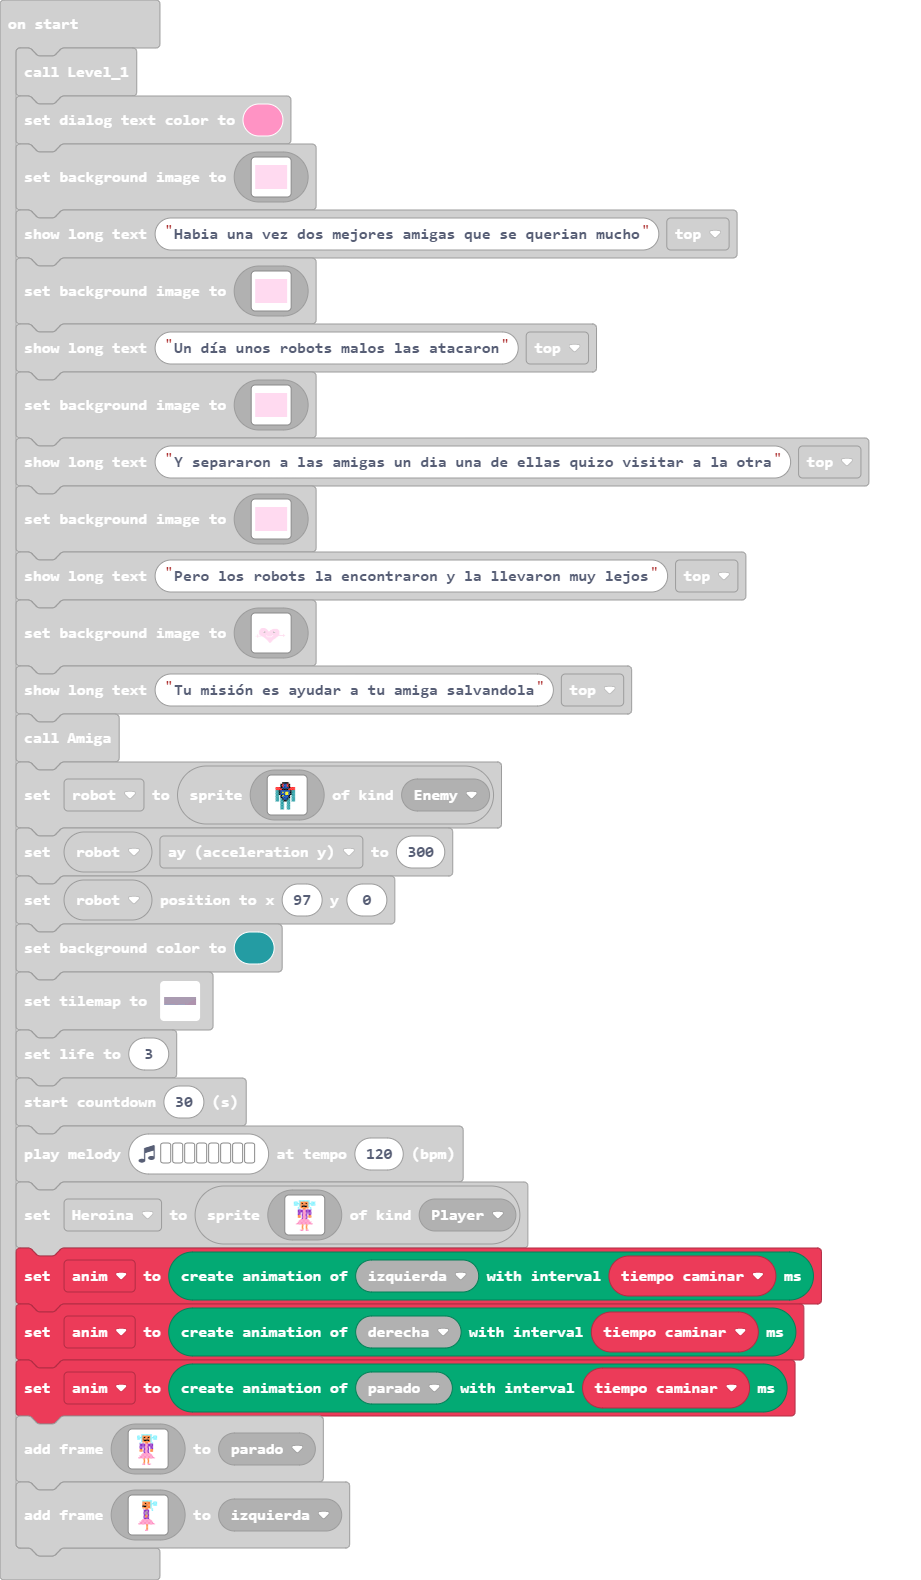
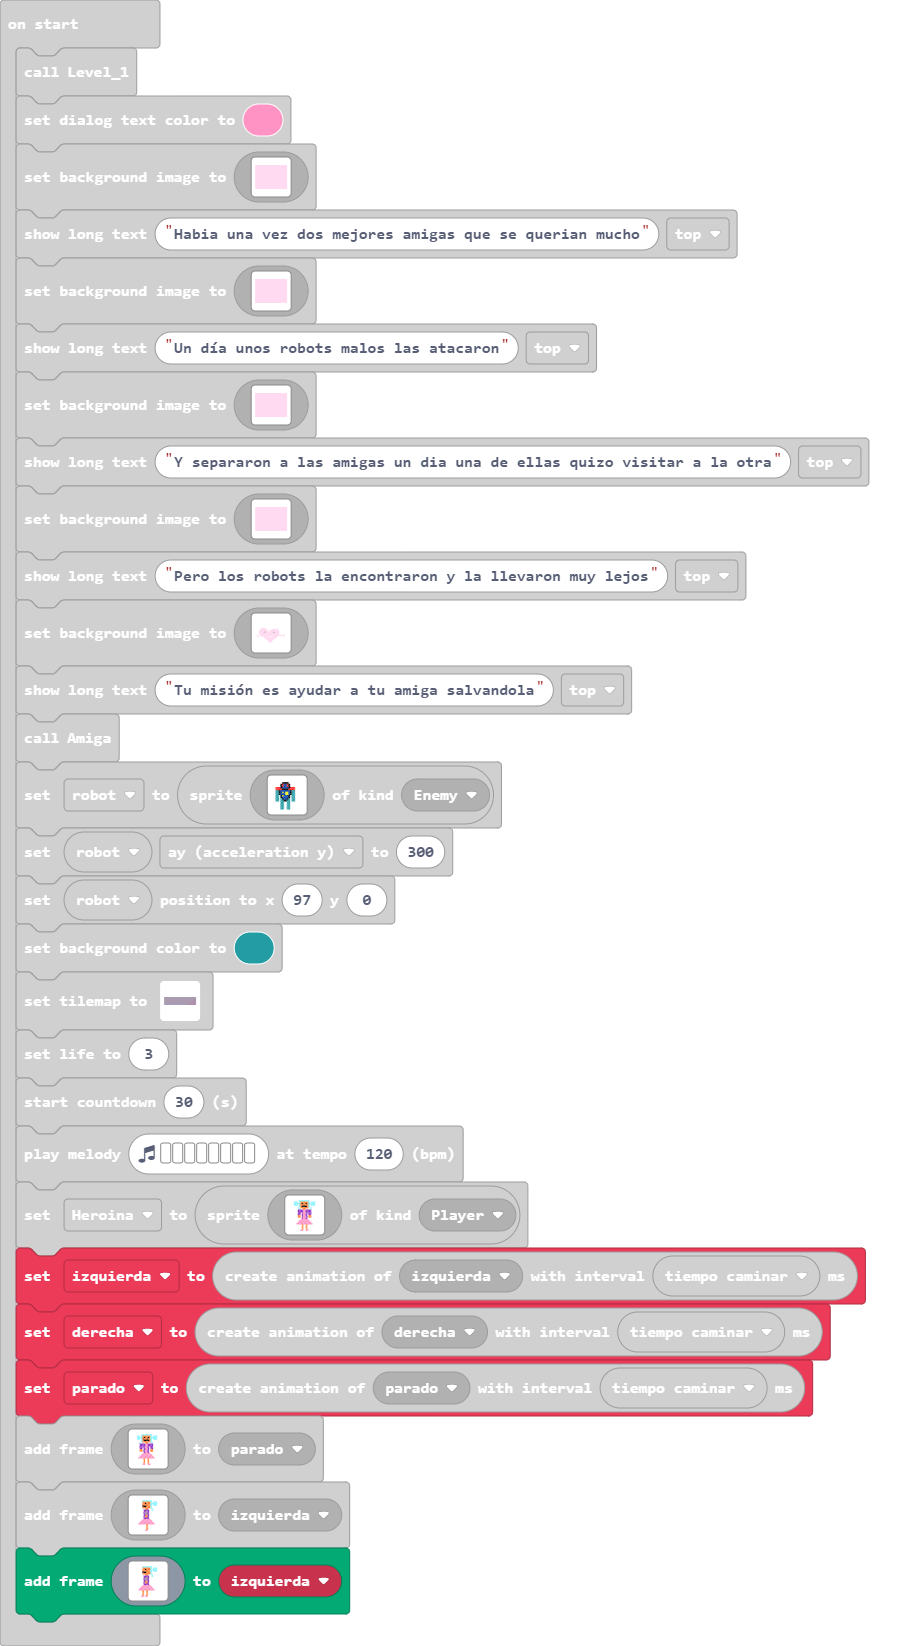
arregle el problema de la animacion

Changed region(s): [[0.0, 0.031, 0.9425, 0.9924]]

diff --git a/main.ts b/main.ts
@@ -159,8 +159,6 @@ sprites.onOverlap(SpriteKind.Projectile, SpriteKind.Enemy, function (sprite, oth
     robot.destroy()
 })
 let projectile: Sprite = null
-let izquierda: animation.Animation = null
-let parado: animation.Animation = null
 let tiempo_caminar = 0
 let Heroina: Sprite = null
 let robot: Sprite = null
@@ -854,9 +852,9 @@ Heroina = sprites.create(img`
     . . . . . . 4 . . 4 . . . . . . 
     . . . . . 3 3 . . 3 3 . . . . . 
     `, SpriteKind.Player)
-let anim = animation.createAnimation(ActionKind.izquierda, tiempo_caminar)
-anim = animation.createAnimation(ActionKind.derecha, tiempo_caminar)
-anim = animation.createAnimation(ActionKind.parado, tiempo_caminar)
+let izquierda = animation.createAnimation(ActionKind.izquierda, tiempo_caminar)
+let derecha = animation.createAnimation(ActionKind.derecha, tiempo_caminar)
+let parado = animation.createAnimation(ActionKind.parado, tiempo_caminar)
 parado.addAnimationFrame(img`
     . . . . . . . . . . . . . . . . 
     . . . 9 9 9 9 9 9 9 9 . . . . . 
@@ -908,6 +906,32 @@ izquierda.addAnimationFrame(img`
     . . . . . . . 4 . . . . . . . . 
     . . . . . . . 4 . . . . . . . . 
     . . . . . . 3 3 . . . . . . . . 
+    `)
+izquierda.addAnimationFrame(img`
+    . . . . . . . . . . . . . . . . 
+    . . . . 9 9 9 9 9 9 9 . . . . . 
+    . . . . 4 4 4 4 4 4 9 . 9 9 9 . 
+    . . . . 4 4 f 4 4 4 9 9 9 9 9 . 
+    . . . . 4 4 4 4 4 4 9 . 9 9 9 . 
+    . . . . f f f 4 4 4 9 . . . . . 
+    . . . . 4 4 4 4 4 4 9 . . . . . 
+    . . . . . . 4 4 . . . 9 . . . . 
+    . . . . . a a a a . . 9 . . . . 
+    . . . . . a b b a . . . . . . . 
+    . . . . . a b b a . . . . . . . 
+    . . . . . a b b a . . . . . . . 
+    . . . . . a 4 4 a . . . . . . . 
+    . . . . . a 4 4 a . . . . . . . 
+    . . . . . a a a a . . . . . . . 
+    . . . . 3 3 3 3 3 3 . . . . . . 
+    . . . 3 3 3 3 3 3 3 3 . . . . . 
+    . . 3 3 3 3 3 3 3 3 3 3 . . . . 
+    . 3 3 3 3 3 3 3 3 3 3 3 3 . . . 
+    . . . . 4 . . 4 . . . . . . . . 
+    . . . . 4 . . 4 . . . . . . . . 
+    . . . . 4 . . 4 . . . . . . . . 
+    . . . . 4 . . 4 . . . . . . . . 
+    . . . 3 3 . 3 3 . . . . . . . . 
     `)
 game.onUpdate(function () {
     if (Heroina.tileKindAt(TileDirection.Bottom, myTiles.tile4)) {
